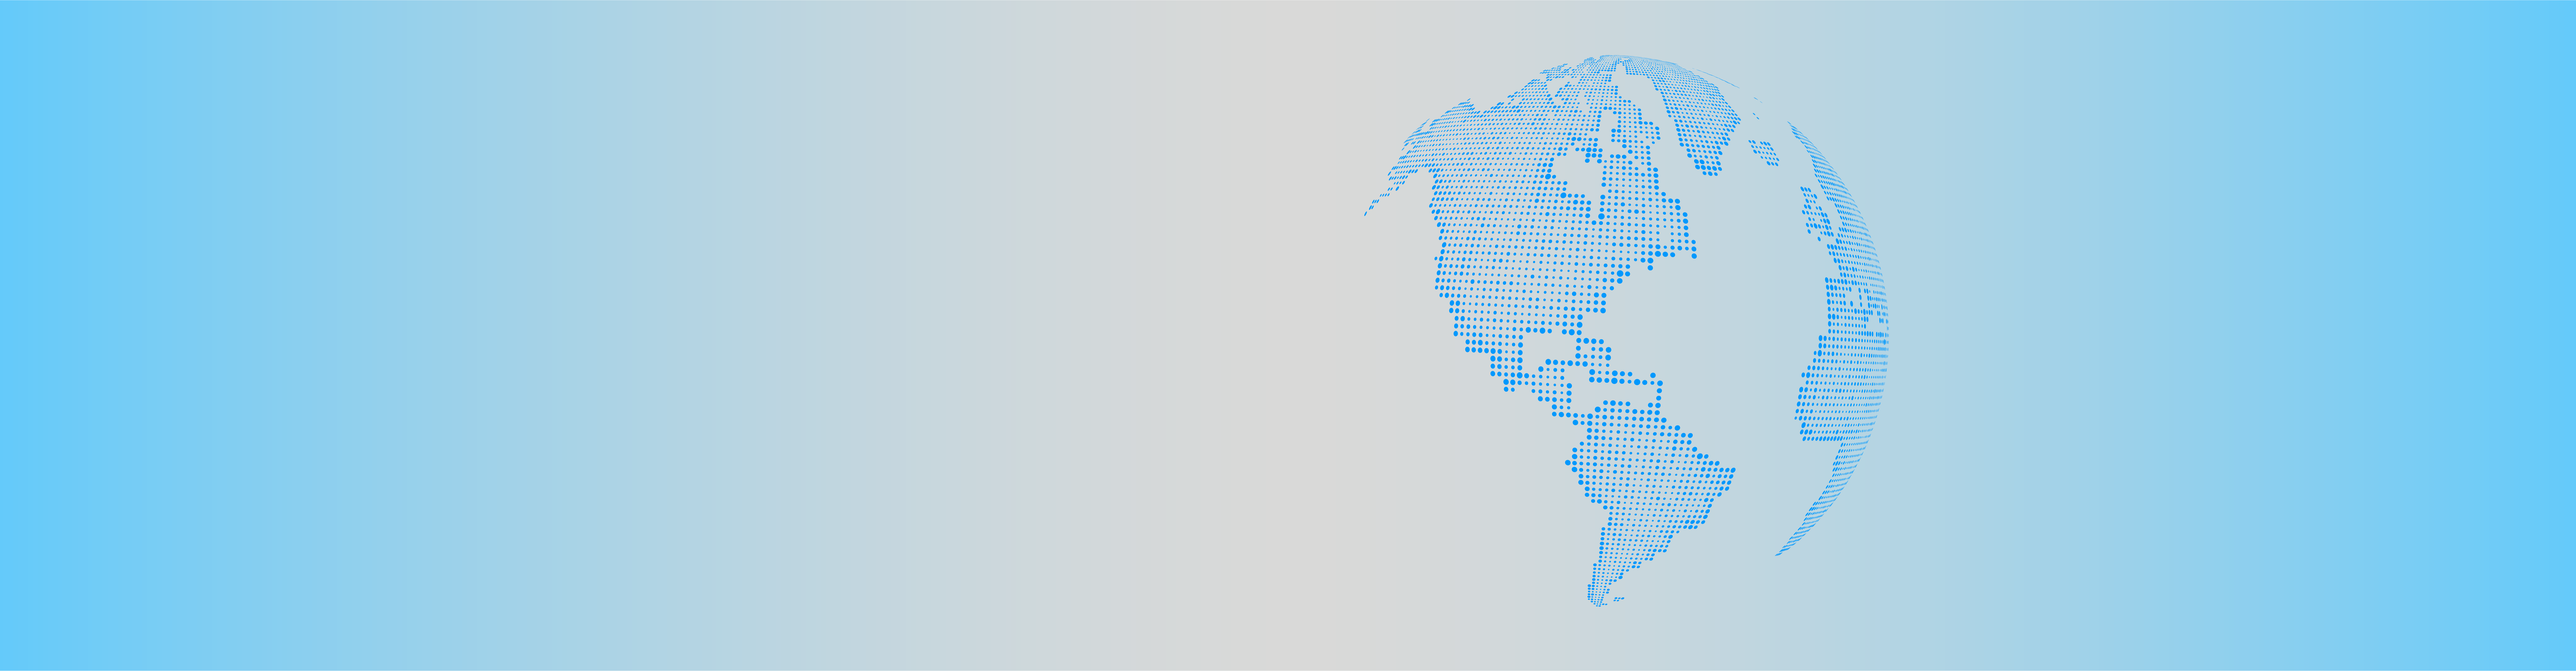
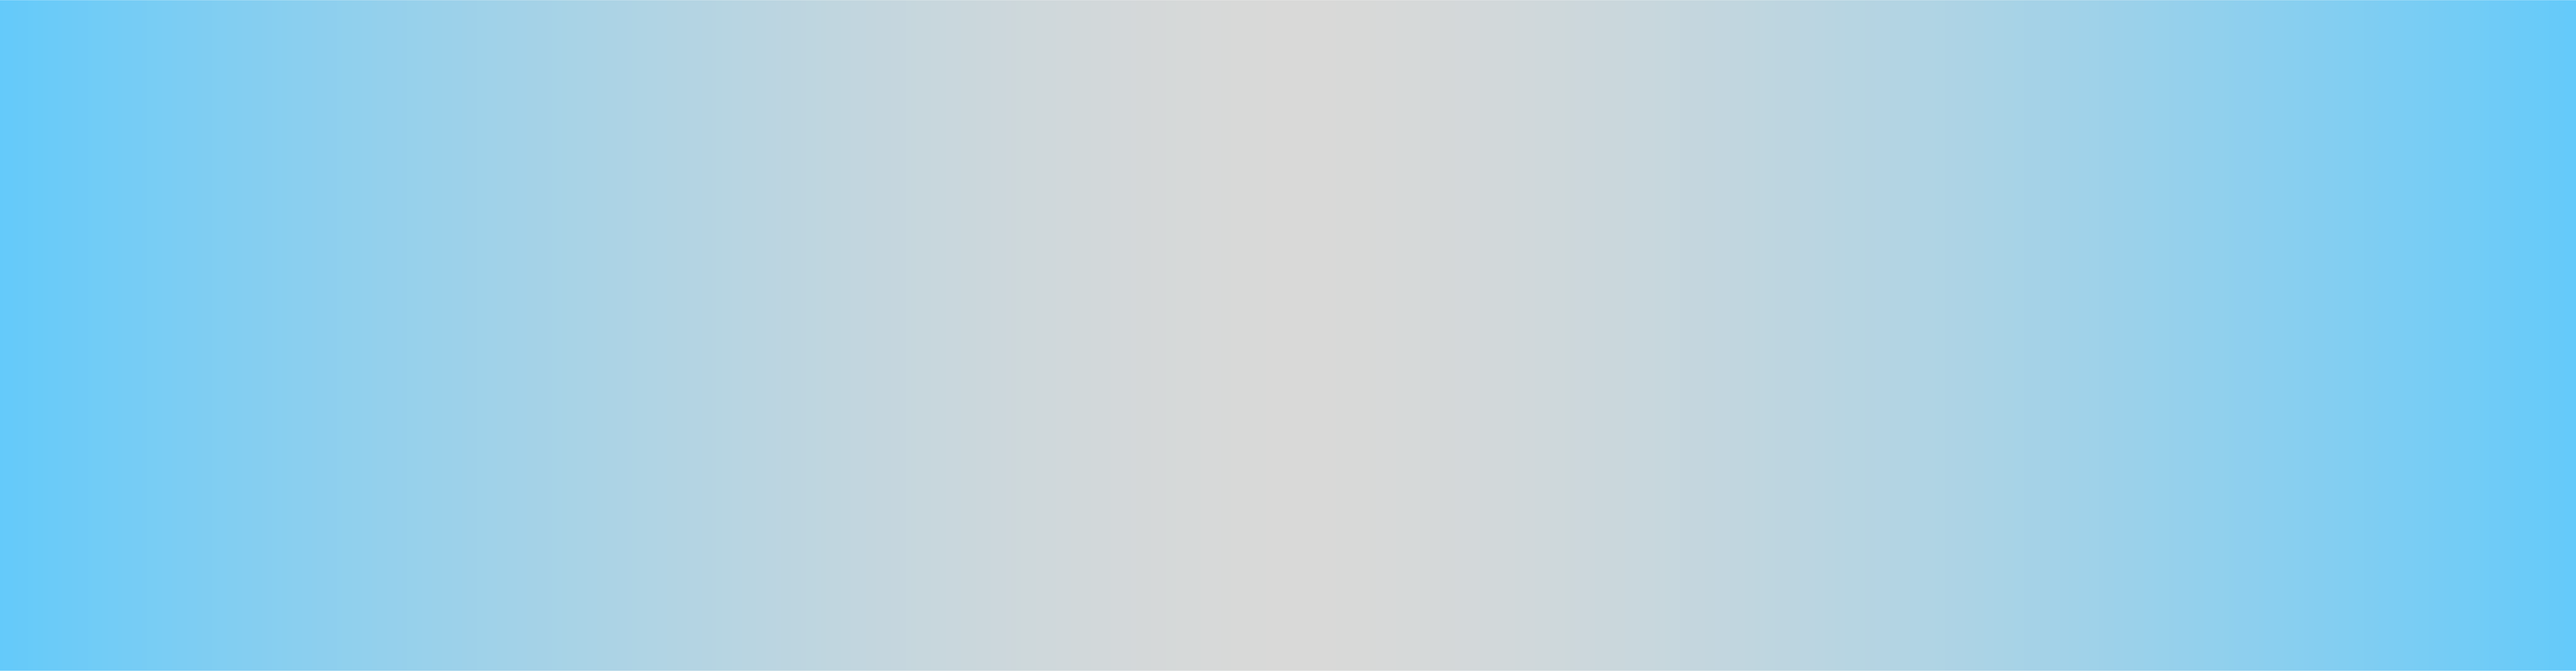
Add Regina Changes

diff --git a/assets/css/index.css b/assets/css/index.css
@@ -9,18 +9,19 @@
 
 body {
 	min-height: 100vh;
-	background-color: var(--light-blue);
+	background-color: var(--bg-color-header);
 
 }
 
 /*================ VARIABLES ================*/
 :root {
-	--bright-blue: #0099ff;
-	--strong-blue: #004481;
-	--medium-blue: #65cbfb;
-	--light-blue : #cbeaff;
+	--primary-color: #0099ff;
+	--second-color: #65cbfb;
+	--accent-color: #004481;
+	--bg-color : #cbeaff;
 	--cute-green : #1FBAE4;
 	--light-green: #6dcbe6;
+	--bg-color-header: white;
 
 	--header-height: 10rem;
 }
@@ -64,7 +65,7 @@ a {
 
 	height: var(--header-height);
 
-	background-color: var(--strong-blue);
+	background-color: var(--bg-color-header);
 }
 
 .header-logo {
@@ -85,7 +86,7 @@ a {
 .menu-item {
 	margin: 0 1rem;
 
-	color: white;
+	color: var(--accent-color);
 	font-size: 1rem;
 	font-weight: 700;
 	line-height: 2rem;
@@ -106,12 +107,11 @@ a {
 	align-items: center;
 	justify-content: center;
 
-	margin: 1rem;
 
 	height: 22rem;
 
-	background-color: var(--light-blue);
-	/* background-image: url("../../assets/images/banner.png"); */
+	background-color: var(--background-color);
+	background-image: url("../../assets/images/banner.png");
 	background-position: center;
 	background-size: cover;
 }
@@ -138,7 +138,7 @@ a {
 	
 	font-weight: 100;
 	font-size: 3.5rem;
-	color: var(--strong-blue);
+	color: var(--accent-color);
 }
 
 .main-title .span {
@@ -149,10 +149,10 @@ a {
 
 	padding: 0.7rem 0.9rem;
 
-	background-color: var(--strong-blue);
+	background-color: var(--bg-color);
 	border-radius: 0.6rem;
 	border: none;
-	color: white;
+	color: var(--accent-color);
 	
 	width: 100%;
 
@@ -192,9 +192,9 @@ a {
 
 	max-width: 10rem;
 
-	background-color: var(--strong-blue);
+	background-color: var(--bg-color);
 	border-radius: 1rem;
-	color: white;
+	color: var(--accent-color);
 	cursor: pointer;
 	font-weight: 600;
 
@@ -213,7 +213,7 @@ a {
 
 	margin-bottom: 1rem;
 
-	color: white;
+	color: var(--primary-color);
 	font-size: 2rem;
 	text-transform: uppercase;
 
@@ -244,7 +244,7 @@ a {
 
 	height: 3rem;
 
-	background-color: var(--strong-blue);
+	background-color: var(--bg-color);
 }
 
 .footer-menu {
@@ -258,4 +258,12 @@ a {
 .footer-text {
 	color: var(--cute-green);
 	align-self: flex-end;
+}
+
+.footer .menu-item {
+	color: var(--second-color);
+}
+
+.footer .menu-item:hover {
+	color: var(--cute-green);
 }
